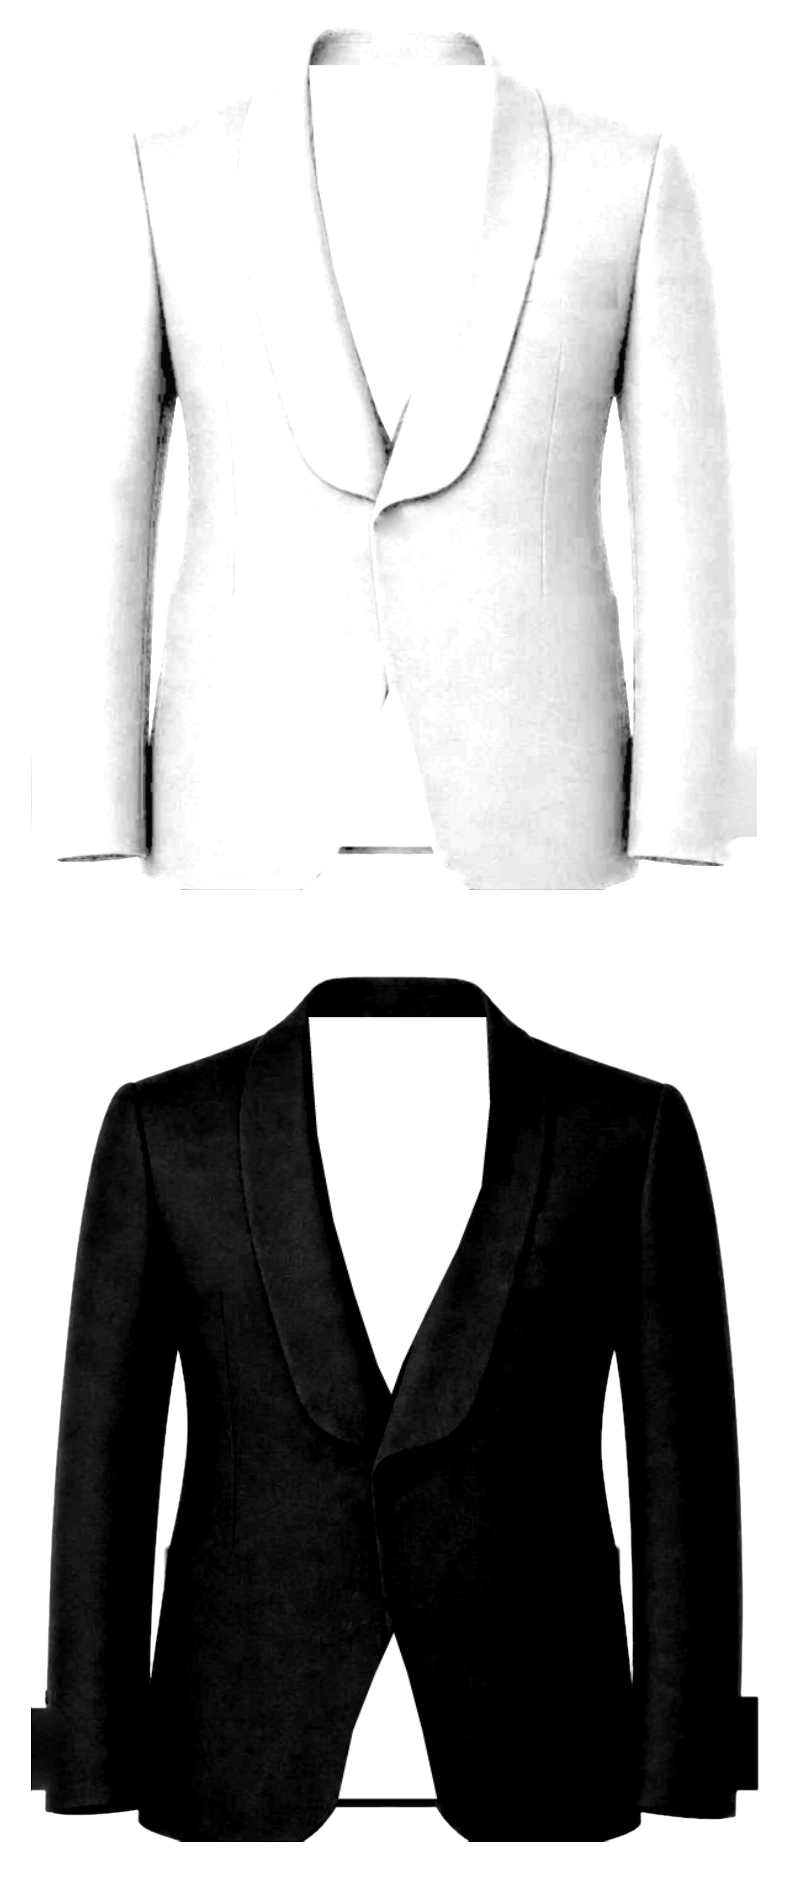
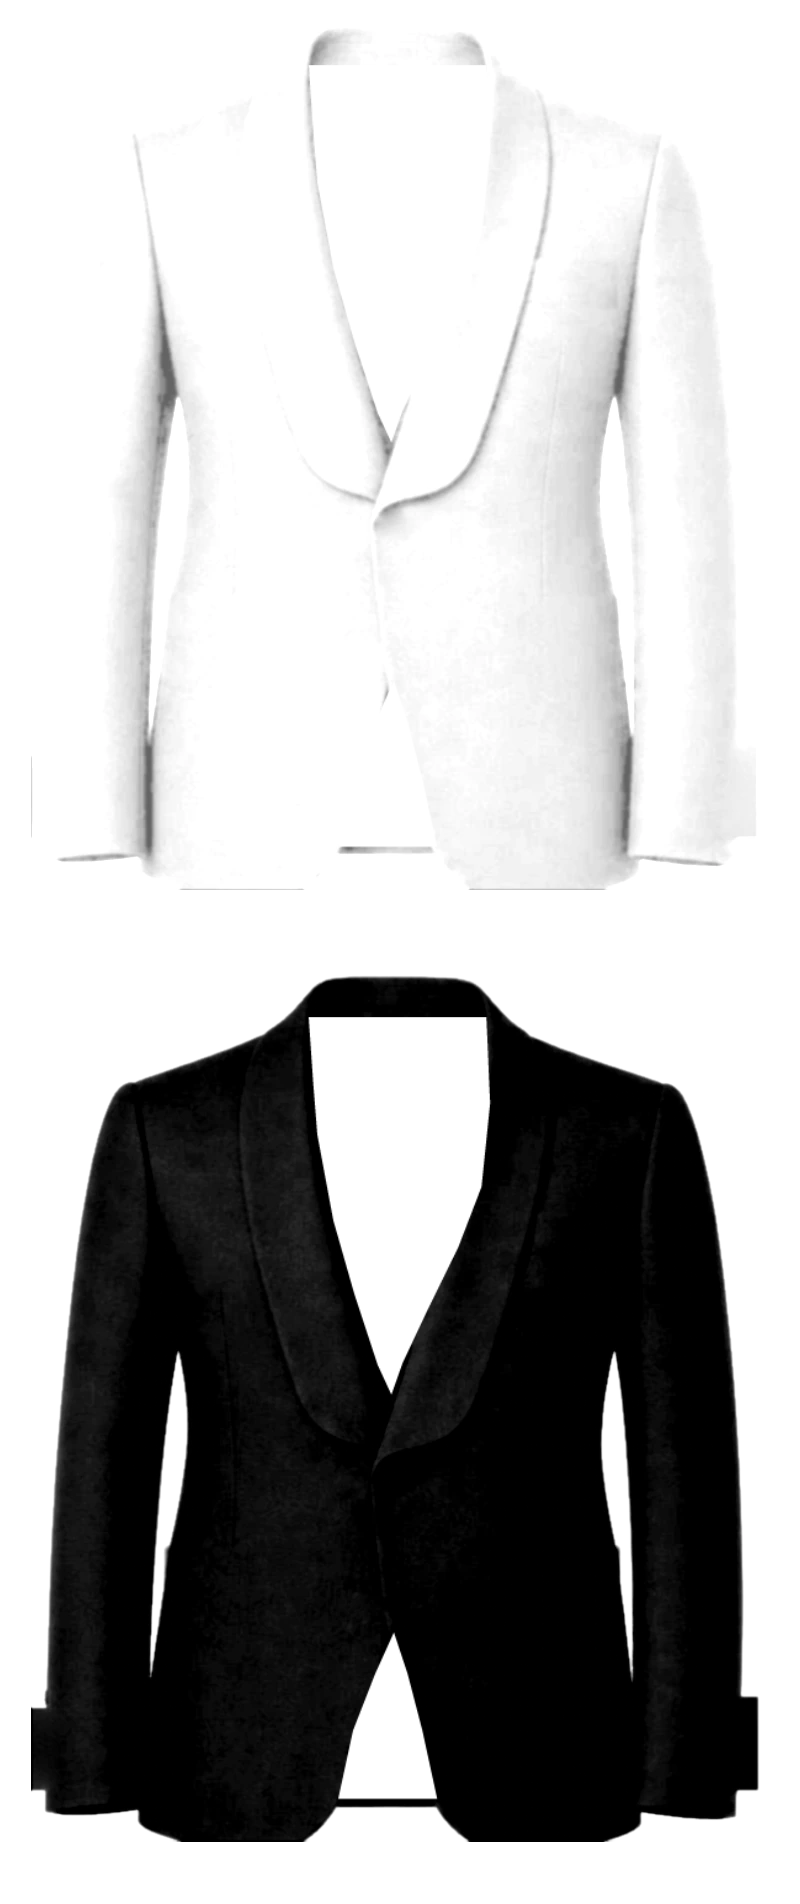
Arc picture: softer lapel edge, chest pocket clear of the lapel (same size) (#684)
Claude-Session: https://claude.ai/code/session_01Y2WUq1weRP5XrU8gepbqNJ

diff --git a/jacket-studio.js b/jacket-studio.js
@@ -56,7 +56,7 @@
   // Double breasted fronts use their own photo (peak lapels, the front
   // crossing over; scripts/make_jacket_photo_db.py).
   const PHOTO_ARC = "./assets/jacket-photo-front-arc.webp?v=1";
-  const SHADE_ARC = "./assets/jacket-photo-shade-front-arc-photo.webp?v=1";
+  const SHADE_ARC = "./assets/jacket-photo-shade-front-arc-photo.webp?v=2";
   const PHOTO_DB = "./assets/jacket-photo-front-db.webp?v=1";
   const SHADE_DB = "./assets/jacket-photo-shade-front-db.webp?v=1";
   const SHADE_DB_LAPEL = {
@@ -664,7 +664,9 @@
     // Chest pocket, kept clear of the lapel's edge (further right on the
     // double breasted photo, whose lapel is wider).
     const ck = chestKind(v.pockettype);
-    const L0 = db ? 522 : 512, R0 = 604, CW = R0 - L0, CX = (L0 + R0) / 2;
+    // The Arc photo's lapel is wider: the pocket moves right, same size.
+    const arcFront = !db && v.collar === "Arc Lapel";
+    const L0 = arcFront ? 545 : db ? 522 : 512, R0 = arcFront ? 637 : 604, CW = R0 - L0, CX = (L0 + R0) / 2;
     if (ck === "patch") patch(g, layer, CX, 268, CW, 92, -2, "roundpatch", 1);
     else if (ck === "boat") clothPiece(g, layer, "M" + L0 + ",292 Q" + CX + ",280 " + R0 + ",284 L" + R0 + ",308 Q" + CX + ",304 " + L0 + ",316 Z", { shadow: 0.4, blur: 3, drop: 1.5, grad: [282, 316], stitch: "M" + (L0 + 4) + ",295 Q" + CX + ",284 " + (R0 - 4) + ",288 L" + (R0 - 4) + ",305 Q" + CX + ",301 " + (L0 + 4) + ",312 Z" });
     else if (ck === "welt") clothPiece(g, layer, boxPath(CX, 287, CW, 26, -2.5, 0), { shadow: 0.4, blur: 3, drop: 1.5, grad: [287, 313], stitch: boxPath(CX, 290, CW - 6, 20, -2.5, 0) });

diff --git a/index.html b/index.html
@@ -1360,7 +1360,7 @@
 <!-- Your Jacket peek: a small read-only picture of the jacket beside the
      Jacket questions; tap to see it big (Daniel, 2026-11-19). The old
      clickable "Interactive Jacket" mode is no longer offered. -->
-<script src="./jacket-studio.js?v=20261120arcphoto"></script>
+<script src="./jacket-studio.js?v=20261120arcfix"></script>
 
 </body>
 </html>

diff --git a/scripts/make_jacket_photo_arc.py b/scripts/make_jacket_photo_arc.py
@@ -99,6 +99,11 @@ Lu = Image.fromarray(np.clip(Lw, 0, 255).astype(np.uint8))
 Ls = np.asarray(Lu.filter(ImageFilter.MedianFilter(3)).filter(ImageFilter.GaussianBlur(0.6))).astype(np.float32)
 Lref = float(np.median(Ls[cl > 0.9]))
 r = (np.maximum(Ls, 1) / Lref) ** GAMMA
+# The photo's lapel edge is a thin near-black line; on the customer's cloth it
+# read as a hard drawn outline (Daniel 2026-11-19). Soften it: blur the
+# shading a touch and pull the darkest values back toward the cloth.
+r = np.asarray(Image.fromarray(np.clip(r * 100, 0, 255).astype(np.uint8)).filter(ImageFilter.GaussianBlur(1.1))).astype(np.float32) / 100
+r = np.where(r < 1, 1 - (1 - r) * 0.62, r)
 A = np.clip(cl, 0, 1) * 255
 M1 = np.clip(r, 0, 1) * 255; M2 = np.clip(r - 1, 0, 1) * 255
 top = np.dstack([M1, M1, M1, A]); bot = np.dstack([M2, M2, M2, A])
